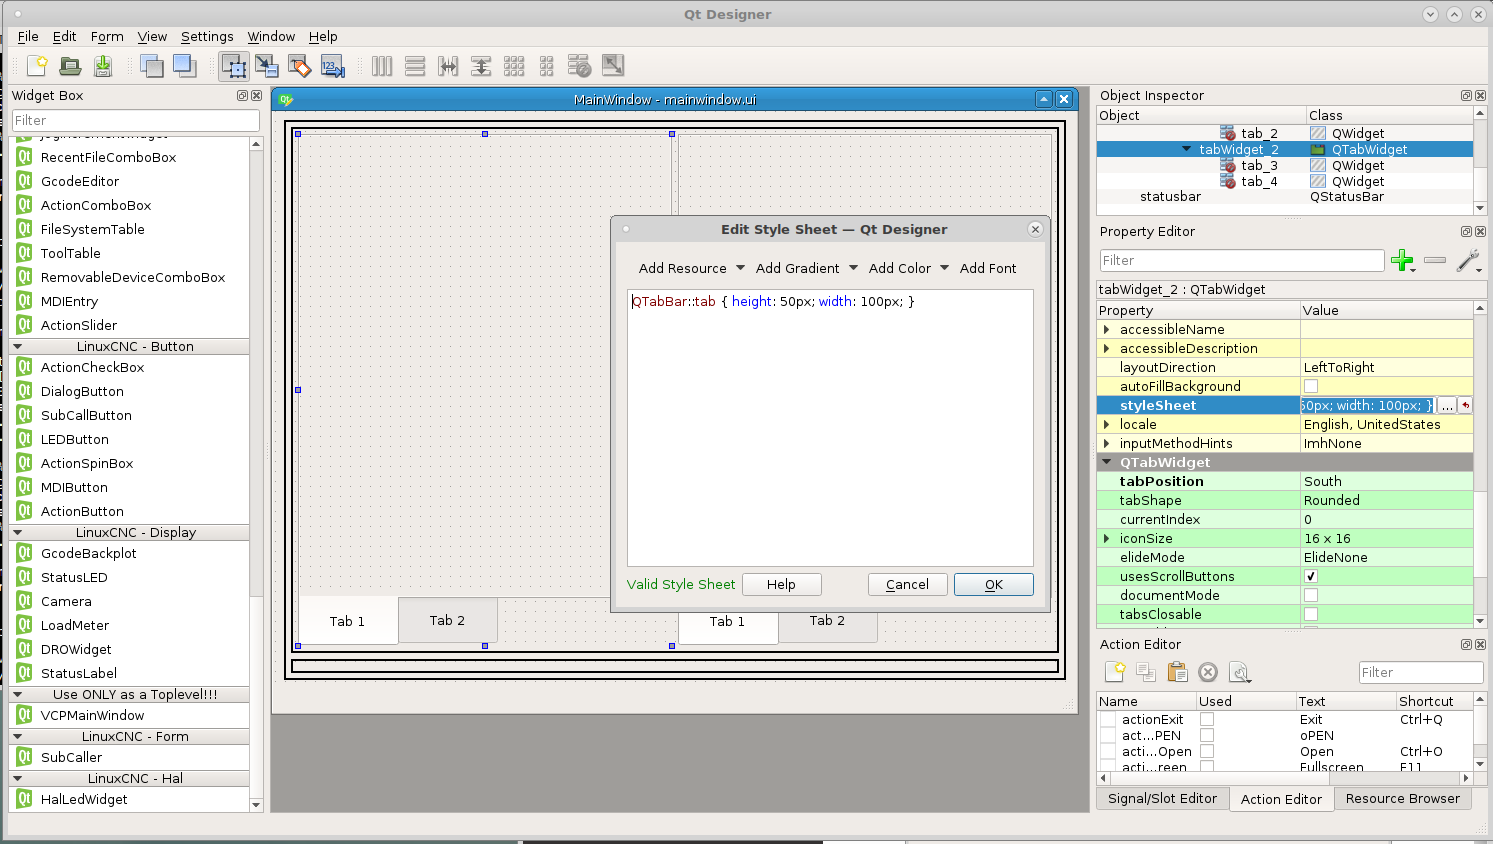
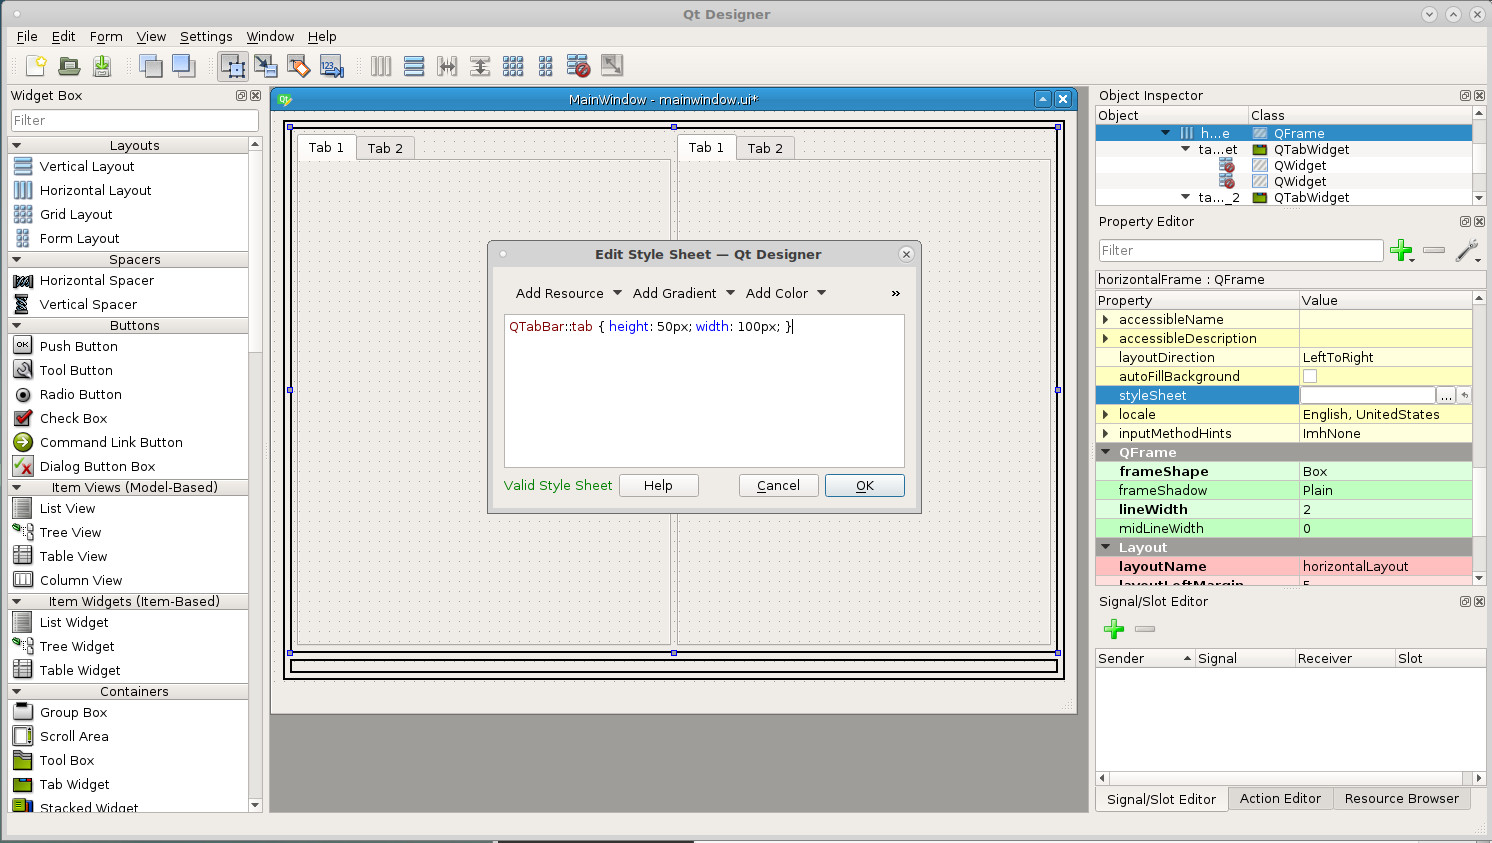
DOC: more updates to tutorial

Changed region(s): [[0.0, 0.0308, 1.0, 1.0], [0.4625, 0.0, 0.4933, 0.0308], [0.2775, 0.7094, 0.3083, 0.7402]]

diff --git a/docs/source/tutorials/basic_vcp_02.rst b/docs/source/tutorials/basic_vcp_02.rst
@@ -43,10 +43,11 @@ into it.
 
 Now we want to change the tab widgets to be more touch screen friendly. To set
 the size of tabs in a `Tab Widget` add the following into the 
-`tabWidget styleSheet`. ``QTabBar::tab { height: 50px; width: 100px; }``. This
-will set the size of the tabs larger and easier to press with your finger. Also
-change the location of the tabs to the `South` position so you can see the tab 
-as you change from tab to tab.
+`QFrame styleSheet` that has the Tab Widgets in it. 
+``QTabBar::tab { height: 50px; width: 100px; }``. This will set the size of the
+tabs larger and easier to press with your finger. Also change the location of
+the tabs to the `South` position so you can see the tab as you change from tab
+to tab.
 
 .. image:: images/vcp1-designer-07.png
    :align: center
